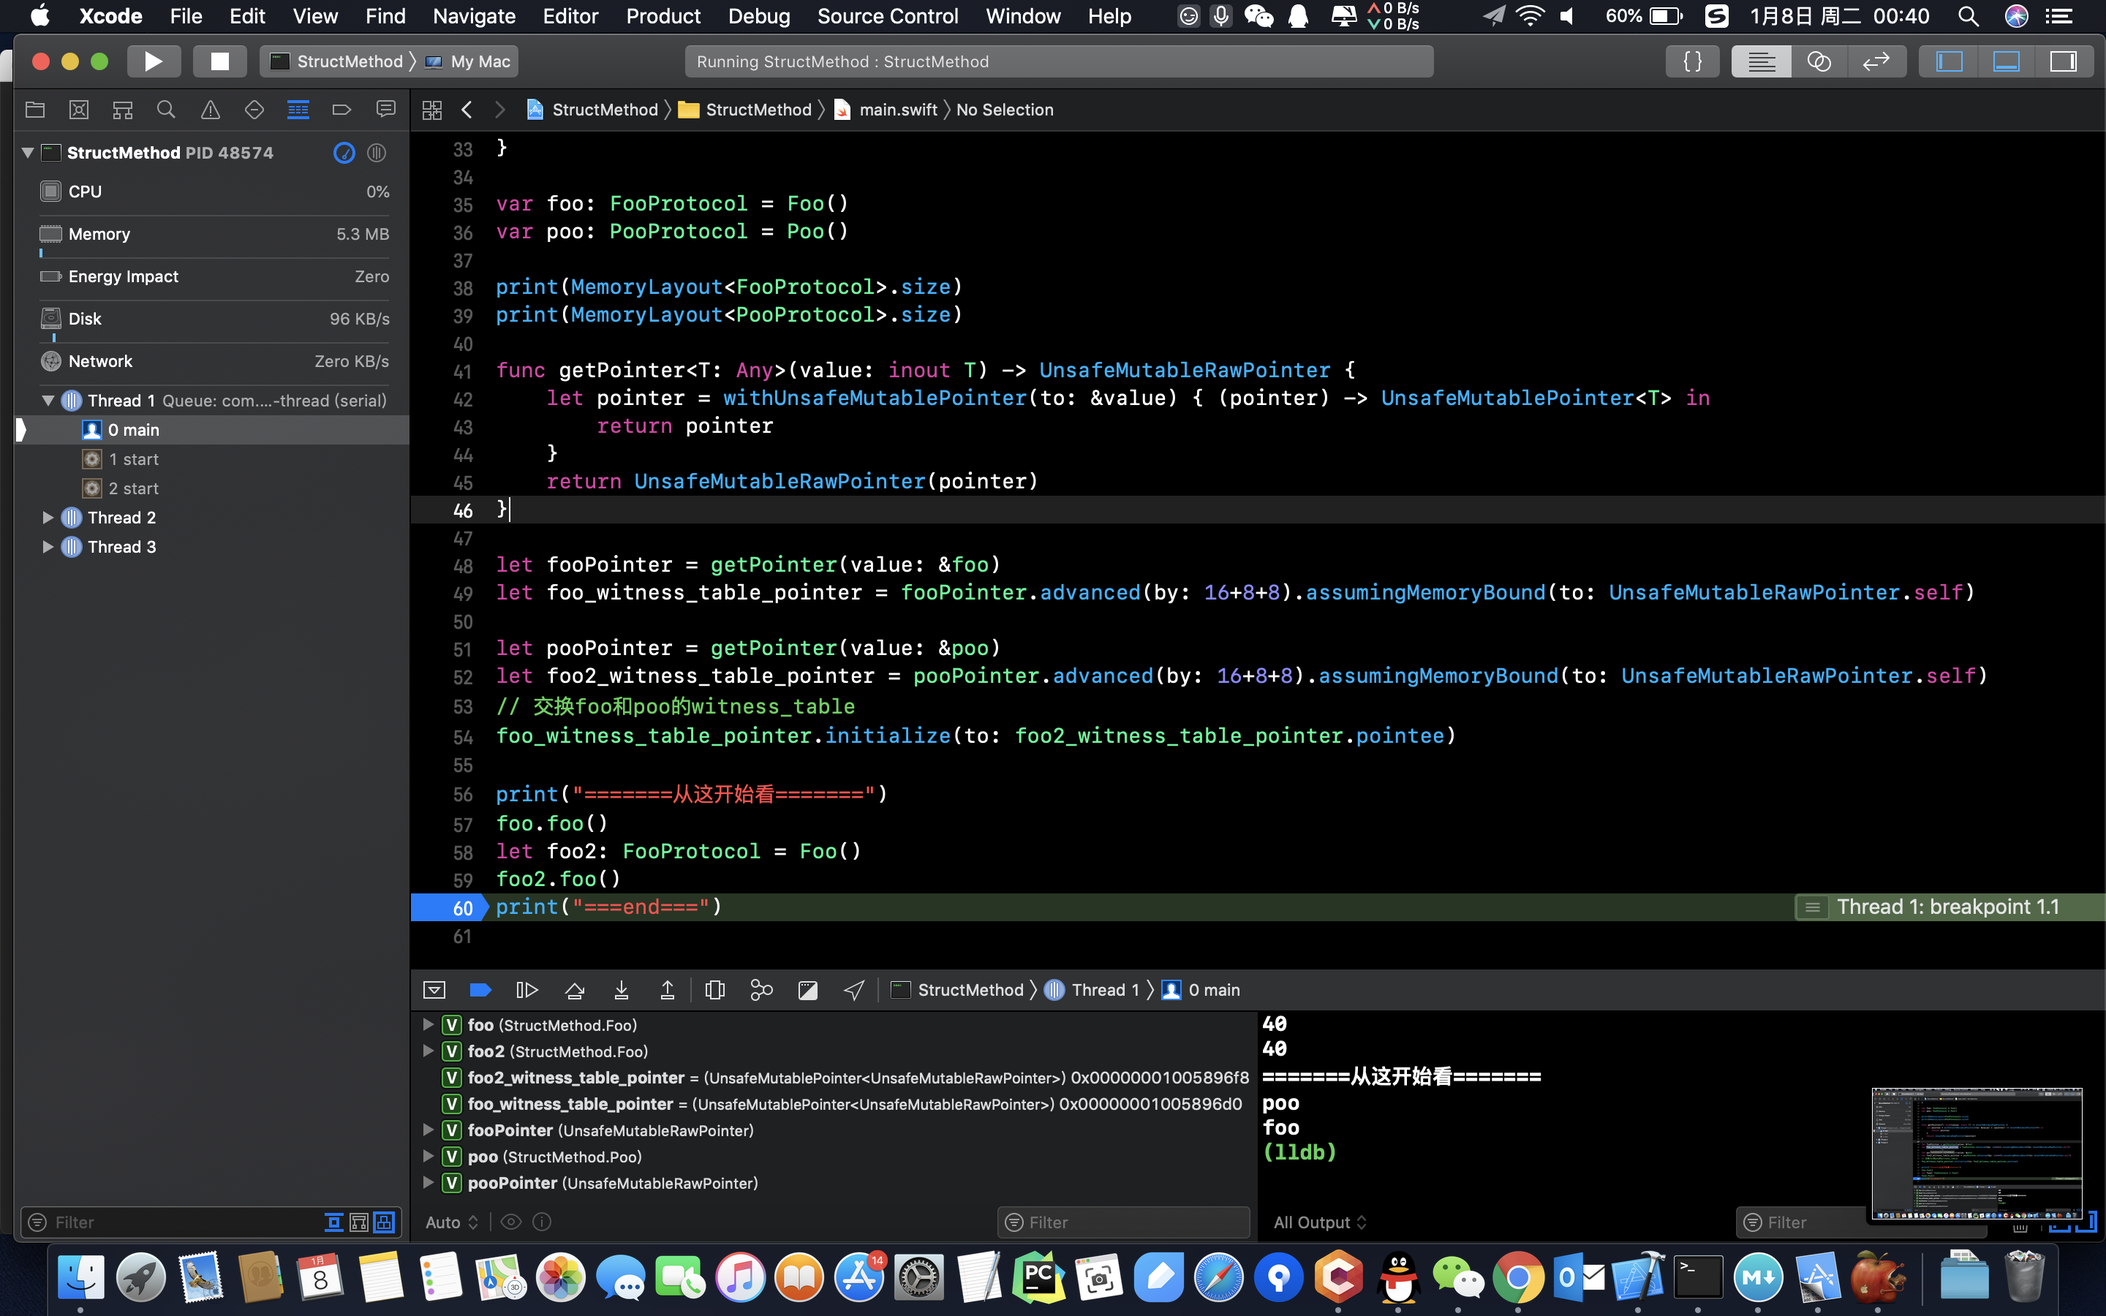
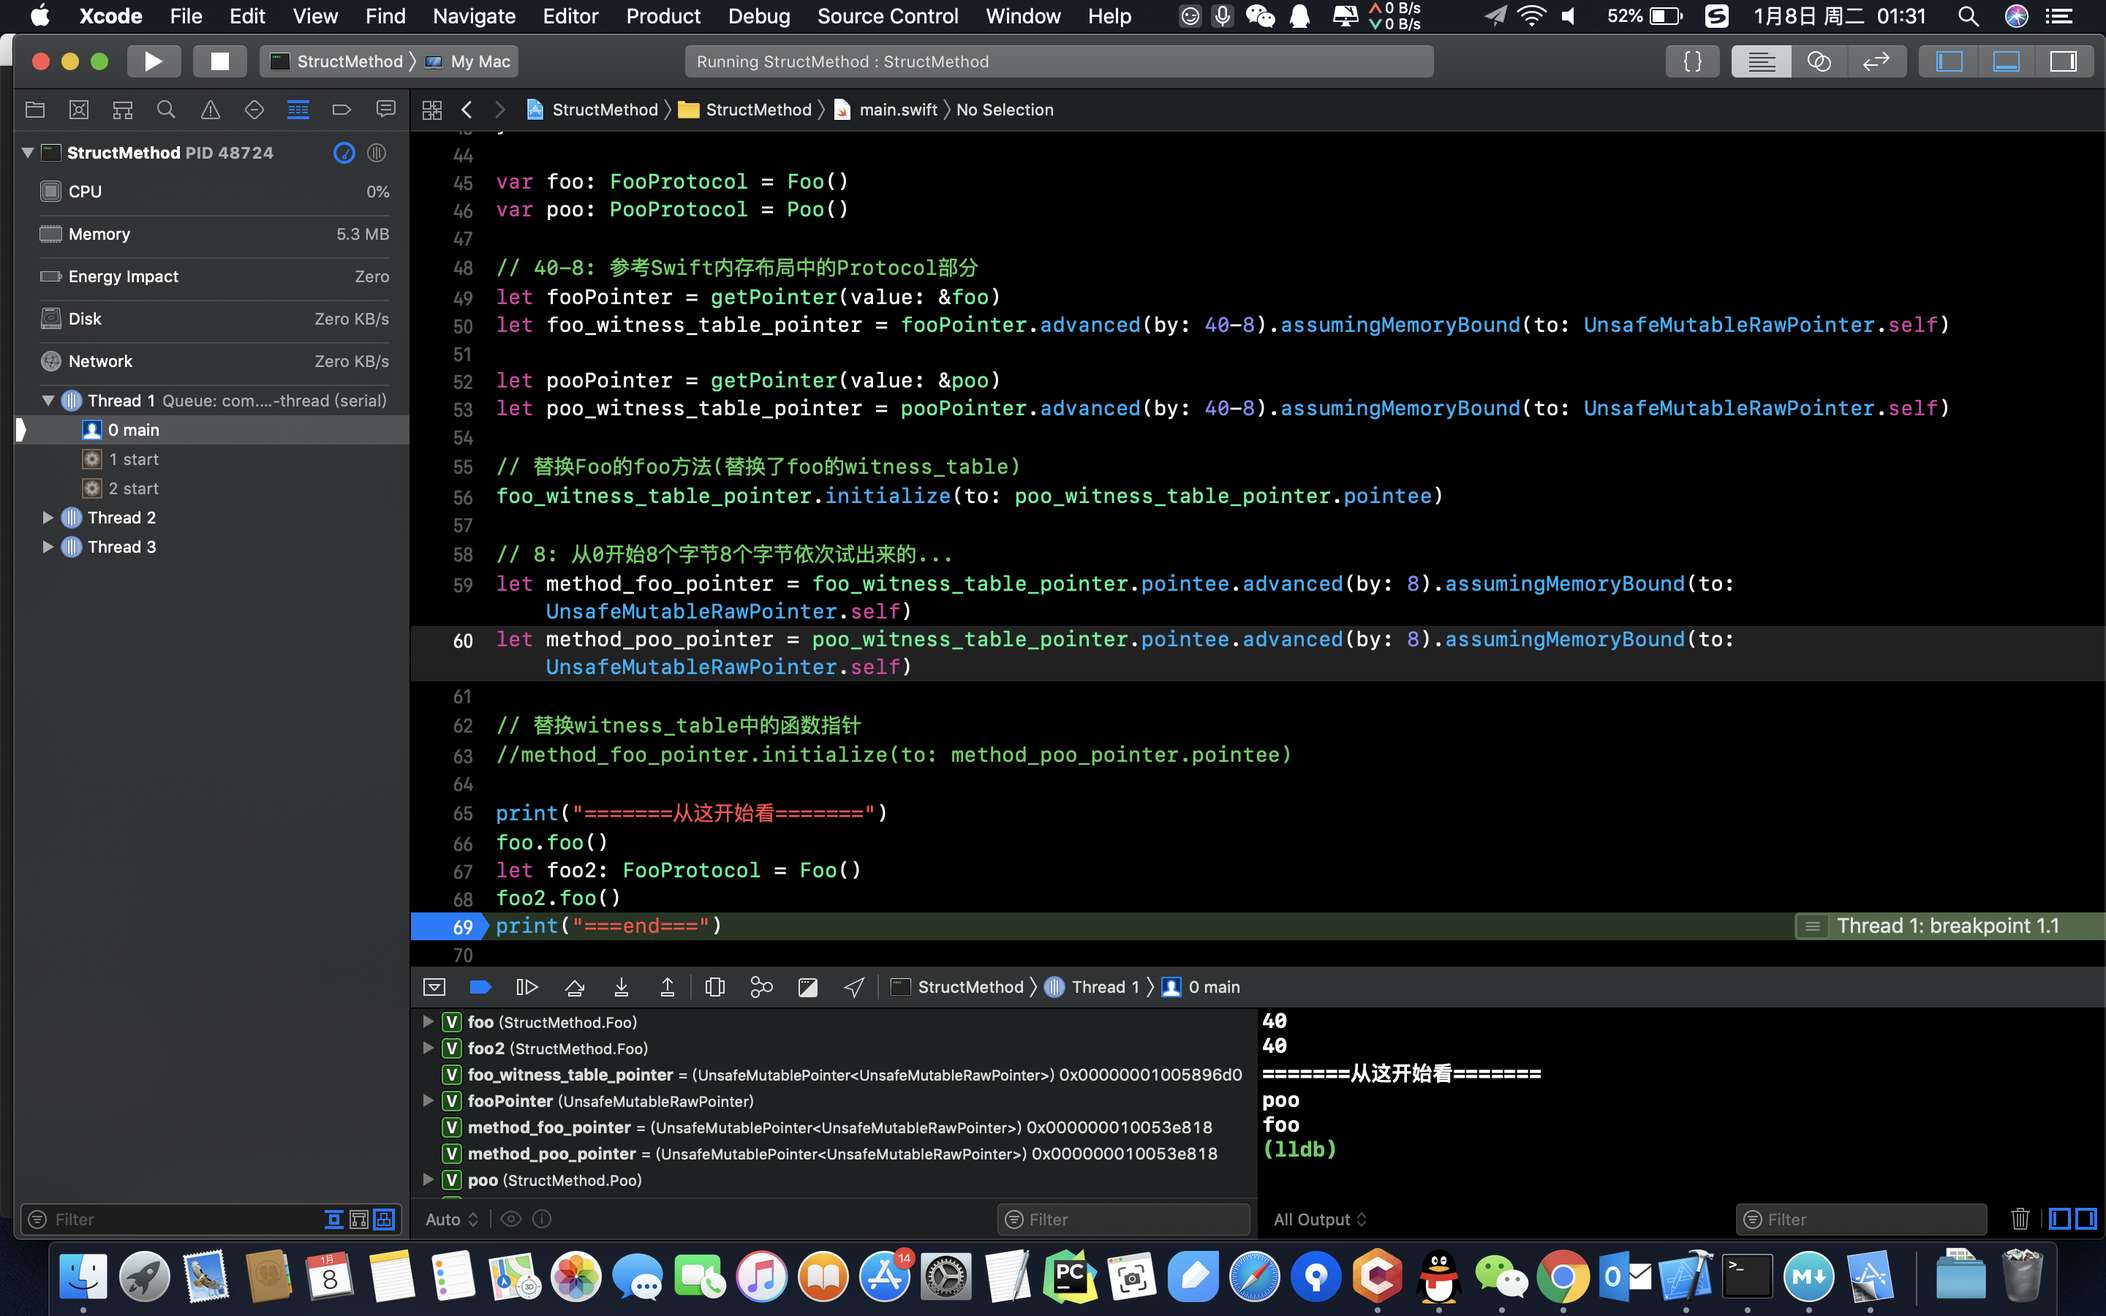
Site updated: 2019-01-08 01:35:01

diff --git a/2019/01/06/Swift方法调用/index.html b/2019/01/06/Swift方法调用/index.html
@@ -94,7 +94,8 @@
 <meta property="og:image" content="http://yoursite.com/images/Swift_MethodDispatch/Class_class_method2.png">
 <meta property="og:image" content="http://yoursite.com/images/Swift_MethodDispatch/Class_class_method3.png">
 <meta property="og:image" content="http://yoursite.com/images/Swift_MethodDispatch/Protocol_method.png">
-<meta property="og:updated_time" content="2019-01-07T16:45:47.422Z">
+<meta property="og:image" content="http://yoursite.com/images/Swift_MethodDispatch/Protocol_method2.png">
+<meta property="og:updated_time" content="2019-01-07T17:34:27.470Z">
 <meta name="twitter:card" content="summary">
 <meta name="twitter:title" content="Swift方法调用">
 <meta name="twitter:description" content="参考链接 阅读本文前，可以先参考Swift内存布局 编译型程序的方法调用有三种方式，第一种是直接派发(静态调度)，运行时寄存器通过call指令直接跳转至函数指针指向的具体实现地址。第二种通过虚函数表的方式，通过计算出函数指针在虚函数表中偏移量，得到函数指针，在通过call指令跳转到函数指针指向的内存地址，执行函数。第三种是消息机制，在Objective-C或者Swift(部分方法调用)中通过cal">
@@ -365,8 +366,10 @@
 <h2 id="Protocol"><a href="#Protocol" class="headerlink" title="Protocol"></a>Protocol</h2><p>最后我们来看看协议类型的方法调用, 在<a href="https://jintao1997.github.io/2018/12/27/Swift%E5%86%85%E5%AD%98%E5%B8%83%E5%B1%80/" target="_blank" rel="noopener">Swift内存布局</a>中我有说到协议类型的内存布局中一个witness_table的属性，是一个指针，指向的是协议中定义的方法表</p>
 <p>协议类型，通过虚函数表的方式调用。因为witness_table类似于c++中的vtable.</p>
 <p>接下来看demo吧~   </p>
-<figure class="highlight swift"><table><tr><td class="gutter"><pre><span class="line">1</span><br><span class="line">2</span><br><span class="line">3</span><br><span class="line">4</span><br><span class="line">5</span><br><span class="line">6</span><br><span class="line">7</span><br><span class="line">8</span><br><span class="line">9</span><br><span class="line">10</span><br><span class="line">11</span><br><span class="line">12</span><br><span class="line">13</span><br><span class="line">14</span><br><span class="line">15</span><br><span class="line">16</span><br><span class="line">17</span><br><span class="line">18</span><br><span class="line">19</span><br><span class="line">20</span><br><span class="line">21</span><br><span class="line">22</span><br><span class="line">23</span><br><span class="line">24</span><br><span class="line">25</span><br><span class="line">26</span><br><span class="line">27</span><br><span class="line">28</span><br><span class="line">29</span><br><span class="line">30</span><br><span class="line">31</span><br><span class="line">32</span><br><span class="line">33</span><br><span class="line">34</span><br><span class="line">35</span><br><span class="line">36</span><br><span class="line">37</span><br><span class="line">38</span><br><span class="line">39</span><br><span class="line">40</span><br><span class="line">41</span><br><span class="line">42</span><br><span class="line">43</span><br><span class="line">44</span><br><span class="line">45</span><br><span class="line">46</span><br><span class="line">47</span><br><span class="line">48</span><br><span class="line">49</span><br><span class="line">50</span><br></pre></td><td class="code"><pre><span class="line"><span class="class"><span class="keyword">protocol</span> <span class="title">FooProtocol</span> </span>&#123;</span><br><span class="line">    <span class="function"><span class="keyword">func</span> <span class="title">foo</span><span class="params">()</span></span></span><br><span class="line">&#125;</span><br><span class="line"></span><br><span class="line"><span class="class"><span class="keyword">protocol</span> <span class="title">PooProtocol</span> </span>&#123;</span><br><span class="line">    <span class="function"><span class="keyword">func</span> <span class="title">poo</span><span class="params">()</span></span></span><br><span class="line">&#125;</span><br><span class="line"></span><br><span class="line"><span class="class"><span class="keyword">struct</span> <span class="title">Foo</span>: <span class="title">FooProtocol</span> </span>&#123;</span><br><span class="line">    <span class="keyword">let</span> name = <span class="string">"Foo"</span></span><br><span class="line">    </span><br><span class="line">    <span class="function"><span class="keyword">func</span> <span class="title">foo</span><span class="params">()</span></span> &#123;</span><br><span class="line">        <span class="built_in">print</span>(<span class="string">"foo"</span>)</span><br><span class="line">    &#125;</span><br><span class="line">&#125;</span><br><span class="line"></span><br><span class="line"><span class="class"><span class="keyword">struct</span> <span class="title">Poo</span>: <span class="title">PooProtocol</span> </span>&#123;</span><br><span class="line">    <span class="keyword">let</span> name = <span class="string">"Poo"</span></span><br><span class="line">    </span><br><span class="line">    <span class="function"><span class="keyword">func</span> <span class="title">poo</span><span class="params">()</span></span> &#123;</span><br><span class="line">        <span class="built_in">print</span>(<span class="string">"poo"</span>)</span><br><span class="line">    &#125;</span><br><span class="line">&#125;</span><br><span class="line"></span><br><span class="line"><span class="keyword">var</span> foo: <span class="type">FooProtocol</span> = <span class="type">Foo</span>()</span><br><span class="line"><span class="keyword">var</span> poo: <span class="type">PooProtocol</span> = <span class="type">Poo</span>()</span><br><span class="line"></span><br><span class="line"><span class="built_in">print</span>(<span class="type">MemoryLayout</span>&lt;<span class="type">FooProtocol</span>&gt;.size)</span><br><span class="line"><span class="built_in">print</span>(<span class="type">MemoryLayout</span>&lt;<span class="type">PooProtocol</span>&gt;.size)</span><br><span class="line"></span><br><span class="line"><span class="function"><span class="keyword">func</span> <span class="title">getPointer</span>&lt;T: Any&gt;<span class="params">(value: <span class="keyword">inout</span> T)</span></span> -&gt; <span class="type">UnsafeMutableRawPointer</span> &#123;</span><br><span class="line">    <span class="keyword">let</span> pointer = <span class="built_in">withUnsafeMutablePointer</span>(to: &amp;value) &#123; (pointer) -&gt; <span class="type">UnsafeMutablePointer</span>&lt;<span class="type">T</span>&gt; <span class="keyword">in</span></span><br><span class="line">        <span class="keyword">return</span> pointer</span><br><span class="line">    &#125;</span><br><span class="line">    <span class="keyword">return</span> <span class="type">UnsafeMutableRawPointer</span>(pointer)</span><br><span class="line">&#125;</span><br><span class="line"></span><br><span class="line"><span class="keyword">let</span> fooPointer = getPointer(value: &amp;foo)</span><br><span class="line"><span class="keyword">let</span> foo_witness_table_pointer = fooPointer.advanced(by: <span class="number">16</span>+<span class="number">8</span>+<span class="number">8</span>).assumingMemoryBound(to: <span class="type">UnsafeMutableRawPointer</span>.<span class="keyword">self</span>)</span><br><span class="line"></span><br><span class="line"><span class="keyword">let</span> pooPointer = getPointer(value: &amp;poo)</span><br><span class="line"><span class="keyword">let</span> foo2_witness_table_pointer = pooPointer.advanced(by: <span class="number">16</span>+<span class="number">8</span>+<span class="number">8</span>).assumingMemoryBound(to: <span class="type">UnsafeMutableRawPointer</span>.<span class="keyword">self</span>)</span><br><span class="line"><span class="comment">// 替换Foo的foo方法(替换了foo的witness_table)</span></span><br><span class="line">foo_witness_table_pointer.initialize(to: foo2_witness_table_pointer.pointee)</span><br><span class="line"></span><br><span class="line"><span class="built_in">print</span>(<span class="string">"=======从这开始看======="</span>)</span><br><span class="line">foo.foo()</span><br><span class="line"><span class="keyword">let</span> foo2: <span class="type">FooProtocol</span> = <span class="type">Foo</span>()</span><br><span class="line">foo2.foo()</span><br><span class="line"><span class="built_in">print</span>(<span class="string">"===end==="</span>)</span><br></pre></td></tr></table></figure>
-<p>运行结果图如下<br><img src="\images\Swift_MethodDispatch\Protocol_method.png" alt=""><br>开始分析: </p>
+<figure class="highlight swift"><table><tr><td class="gutter"><pre><span class="line">1</span><br><span class="line">2</span><br><span class="line">3</span><br><span class="line">4</span><br><span class="line">5</span><br><span class="line">6</span><br><span class="line">7</span><br><span class="line">8</span><br><span class="line">9</span><br><span class="line">10</span><br><span class="line">11</span><br><span class="line">12</span><br><span class="line">13</span><br><span class="line">14</span><br><span class="line">15</span><br><span class="line">16</span><br><span class="line">17</span><br><span class="line">18</span><br><span class="line">19</span><br><span class="line">20</span><br><span class="line">21</span><br><span class="line">22</span><br><span class="line">23</span><br><span class="line">24</span><br><span class="line">25</span><br><span class="line">26</span><br><span class="line">27</span><br><span class="line">28</span><br><span class="line">29</span><br><span class="line">30</span><br><span class="line">31</span><br><span class="line">32</span><br><span class="line">33</span><br><span class="line">34</span><br><span class="line">35</span><br><span class="line">36</span><br><span class="line">37</span><br><span class="line">38</span><br><span class="line">39</span><br><span class="line">40</span><br><span class="line">41</span><br><span class="line">42</span><br><span class="line">43</span><br><span class="line">44</span><br><span class="line">45</span><br><span class="line">46</span><br><span class="line">47</span><br><span class="line">48</span><br><span class="line">49</span><br><span class="line">50</span><br><span class="line">51</span><br><span class="line">52</span><br><span class="line">53</span><br><span class="line">54</span><br><span class="line">55</span><br><span class="line">56</span><br><span class="line">57</span><br><span class="line">58</span><br><span class="line">59</span><br></pre></td><td class="code"><pre><span class="line"><span class="class"><span class="keyword">protocol</span> <span class="title">FooProtocol</span> </span>&#123;</span><br><span class="line">    <span class="function"><span class="keyword">func</span> <span class="title">foo</span><span class="params">()</span></span></span><br><span class="line">&#125;</span><br><span class="line"></span><br><span class="line"><span class="class"><span class="keyword">protocol</span> <span class="title">PooProtocol</span> </span>&#123;</span><br><span class="line">    <span class="function"><span class="keyword">func</span> <span class="title">poo</span><span class="params">()</span></span></span><br><span class="line">&#125;</span><br><span class="line"></span><br><span class="line"><span class="class"><span class="keyword">struct</span> <span class="title">Foo</span>: <span class="title">FooProtocol</span> </span>&#123;</span><br><span class="line">    <span class="keyword">let</span> name = <span class="string">"Foo"</span></span><br><span class="line">    </span><br><span class="line">    <span class="function"><span class="keyword">func</span> <span class="title">foo</span><span class="params">()</span></span> &#123;</span><br><span class="line">        <span class="built_in">print</span>(<span class="string">"foo"</span>)</span><br><span class="line">    &#125;</span><br><span class="line">&#125;</span><br><span class="line"></span><br><span class="line"><span class="class"><span class="keyword">struct</span> <span class="title">Poo</span>: <span class="title">PooProtocol</span> </span>&#123;</span><br><span class="line">    <span class="keyword">let</span> name = <span class="string">"Poo"</span></span><br><span class="line">    </span><br><span class="line">    <span class="function"><span class="keyword">func</span> <span class="title">poo</span><span class="params">()</span></span> &#123;</span><br><span class="line">        <span class="built_in">print</span>(<span class="string">"poo"</span>)</span><br><span class="line">    &#125;</span><br><span class="line">&#125;</span><br><span class="line"></span><br><span class="line"><span class="built_in">print</span>(<span class="type">MemoryLayout</span>&lt;<span class="type">FooProtocol</span>&gt;.size)</span><br><span class="line"><span class="built_in">print</span>(<span class="type">MemoryLayout</span>&lt;<span class="type">PooProtocol</span>&gt;.size)</span><br><span class="line"></span><br><span class="line"><span class="function"><span class="keyword">func</span> <span class="title">getPointer</span>&lt;T: Any&gt;<span class="params">(value: <span class="keyword">inout</span> T)</span></span> -&gt; <span class="type">UnsafeMutableRawPointer</span> &#123;</span><br><span class="line">    <span class="keyword">let</span> pointer = <span class="built_in">withUnsafeMutablePointer</span>(to: &amp;value) &#123; (pointer) -&gt; <span class="type">UnsafeMutablePointer</span>&lt;<span class="type">T</span>&gt; <span class="keyword">in</span></span><br><span class="line">        <span class="keyword">return</span> pointer</span><br><span class="line">    &#125;</span><br><span class="line">    <span class="keyword">return</span> <span class="type">UnsafeMutableRawPointer</span>(pointer)</span><br><span class="line">&#125;</span><br><span class="line"></span><br><span class="line"><span class="keyword">var</span> foo: <span class="type">FooProtocol</span> = <span class="type">Foo</span>()</span><br><span class="line"><span class="keyword">var</span> poo: <span class="type">PooProtocol</span> = <span class="type">Poo</span>()</span><br><span class="line"></span><br><span class="line"><span class="comment">// 40-8: 参考Swift内存布局中的Protocol部分</span></span><br><span class="line"><span class="keyword">let</span> fooPointer = getPointer(value: &amp;foo)</span><br><span class="line"><span class="keyword">let</span> foo_witness_table_pointer = fooPointer.advanced(by: <span class="number">40</span>-<span class="number">8</span>).assumingMemoryBound(to: <span class="type">UnsafeMutableRawPointer</span>.<span class="keyword">self</span>)</span><br><span class="line"></span><br><span class="line"><span class="keyword">let</span> pooPointer = getPointer(value: &amp;poo)</span><br><span class="line"><span class="keyword">let</span> poo_witness_table_pointer = pooPointer.advanced(by: <span class="number">40</span>-<span class="number">8</span>).assumingMemoryBound(to: <span class="type">UnsafeMutableRawPointer</span>.<span class="keyword">self</span>)</span><br><span class="line"></span><br><span class="line"><span class="comment">// 替换Foo的foo方法(替换了foo的witness_table)</span></span><br><span class="line">foo_witness_table_pointer.initialize(to: poo_witness_table_pointer.pointee)</span><br><span class="line"></span><br><span class="line"><span class="comment">// 8: 从0开始8个字节8个字节依次试出来的...</span></span><br><span class="line"><span class="keyword">let</span> method_foo_pointer = foo_witness_table_pointer.pointee.advanced(by: <span class="number">8</span>).assumingMemoryBound(to: <span class="type">UnsafeMutableRawPointer</span>.<span class="keyword">self</span>)</span><br><span class="line"><span class="keyword">let</span> method_poo_pointer = poo_witness_table_pointer.pointee.advanced(by: <span class="number">8</span>).assumingMemoryBound(to: <span class="type">UnsafeMutableRawPointer</span>.<span class="keyword">self</span>)</span><br><span class="line"></span><br><span class="line"><span class="comment">// 替换witness_table中的函数指针</span></span><br><span class="line"><span class="comment">//method_foo_pointer.initialize(to: method_poo_pointer.pointee)</span></span><br><span class="line"></span><br><span class="line"><span class="built_in">print</span>(<span class="string">"=======从这开始看======="</span>)</span><br><span class="line">foo.foo()</span><br><span class="line"><span class="keyword">let</span> foo2: <span class="type">FooProtocol</span> = <span class="type">Foo</span>()</span><br><span class="line">foo2.foo()</span><br><span class="line"><span class="built_in">print</span>(<span class="string">"===end==="</span>)</span><br></pre></td></tr></table></figure>
+<p>替换witness_table指针结果图如下<br><img src="\images\Swift_MethodDispatch\Protocol_method.png" alt="">  </p>
+<p>替换witness_table中的函数指针结果图如下<br><img src="\images\Swift_MethodDispatch\Protocol_method2.png" alt=""></p>
+<p>开始分析: </p>
 
       
     </div>

diff --git a/css/main.css b/css/main.css
@@ -1822,7 +1822,7 @@ pre .javascript .function {
   width: 4px;
   height: 4px;
   border-radius: 50%;
-  background: #d4a7c8;
+  background: #8ca4ff;
 }
 .links-of-blogroll {
   font-size: 13px;
